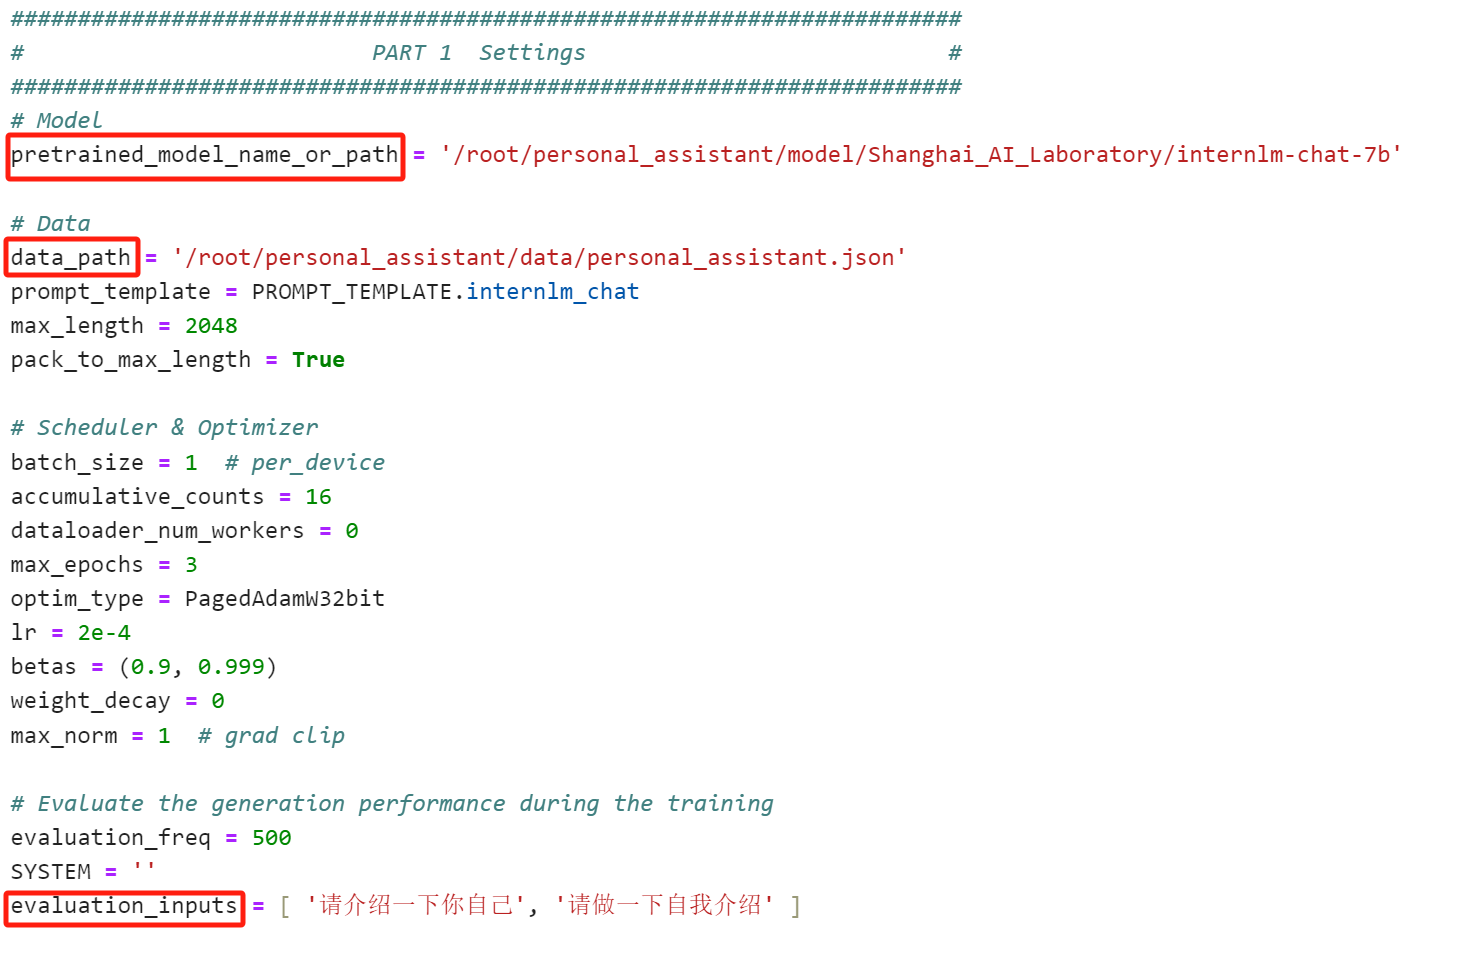
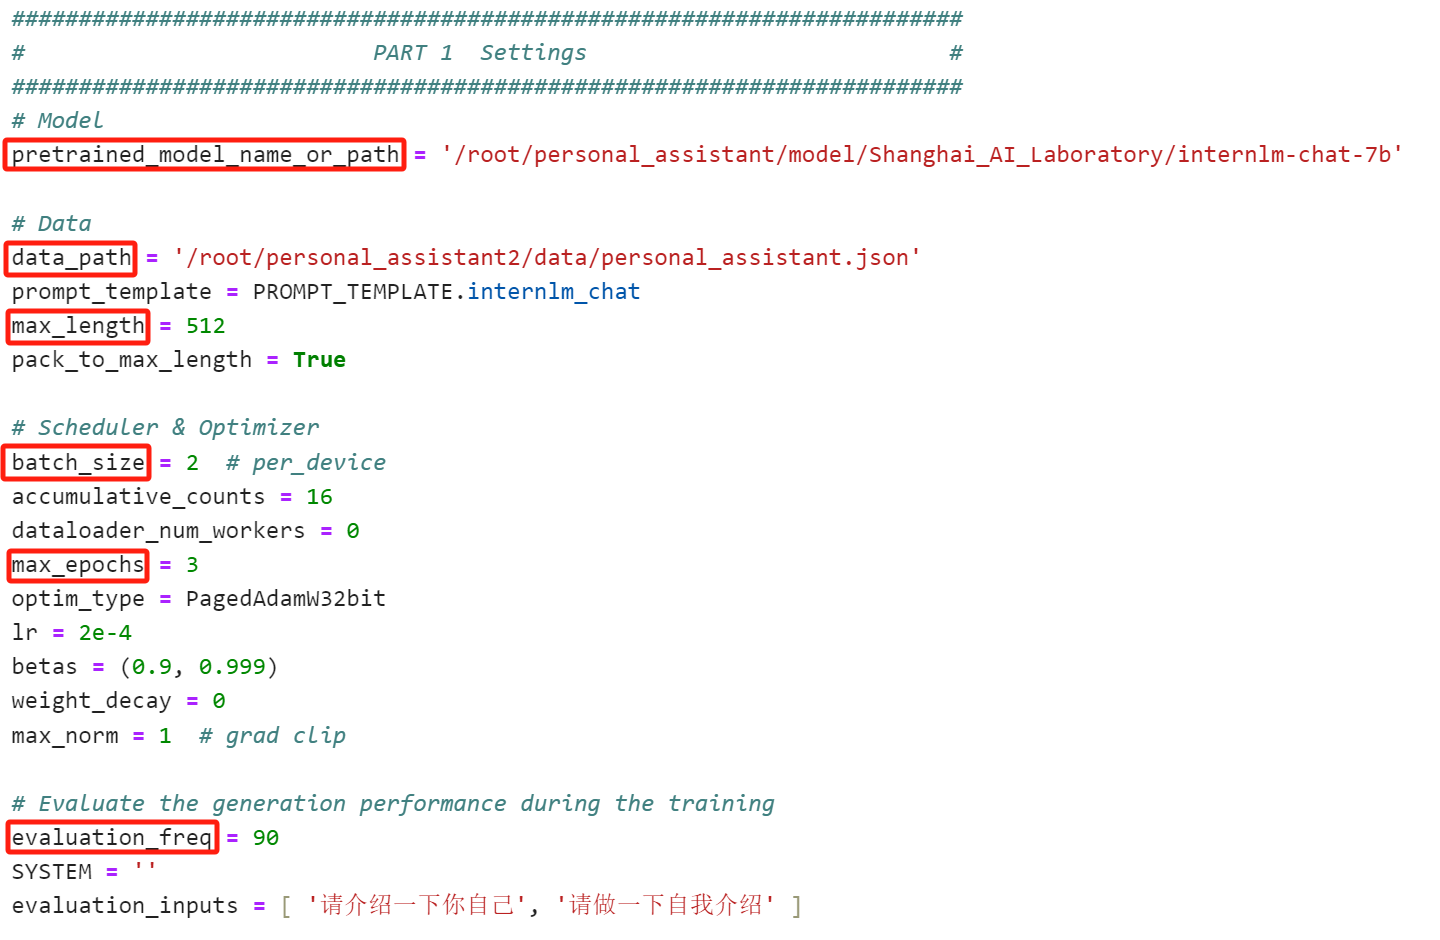
update self.md (#213)
* update self.md

* update self.md

Changed region(s): [[0.0, 0.0, 0.9688, 0.4011], [0.0, 0.4319, 0.2812, 0.8021], [0.0, 0.833, 0.5312, 0.9872]]

diff --git a/xtuner/self.md b/xtuner/self.md
@@ -2,11 +2,15 @@
 
 
 ## 1.概述
-目标：通过微调，增加模型对自己身份的认知
+目标：通过微调，帮助模型~~认清~~了解对自己身份~~弟位~~
 
-方式：通过XTuner进行微调
+方式：使用XTuner进行微调
 
+**微调前**（回答比较官方）
+![web_show_2.png](imgs%2Fweb_show_2.png)
 
+**微调后**（对自己的身份~~弟位~~有了清晰的认知）
+![web_show_1.png](imgs%2Fweb_show_1.png)
 ## 2.实操
 
 ### 2.1微调环境准备
@@ -19,7 +23,7 @@
 bash
 conda create --name personal_assistant --clone=/root/share/conda_envs/internlm-base
 # 如果在其他平台：
-conda create --name personal_assistant python=3.10 -y
+# conda create --name personal_assistant python=3.10 -y
 
 # 激活环境
 conda activate personal_assistant
@@ -50,7 +54,7 @@ pip install -e '.[all]'
 mkdir /root/personal_assistant/data && cd /root/personal_assistant/data
 ```
 
-在`data`目录下创建一个json文件`personal_assistant.json`作为本次微调所使用的数据集。json中内容可参考下方(复制粘贴几百次做数据增广，数据量小无法有效微调，下面仅用于展示格式)
+在`data`目录下创建一个json文件`personal_assistant.json`作为本次微调所使用的数据集。json中内容可参考下方(复制粘贴n次做数据增广，数据量小无法有效微调，下面仅用于展示格式)
 
 其中`conversation`表示一次对话的内容，`input`为输入，即用户会问的问题，`output`为输出，即想要模型回答的答案。
 
@@ -68,22 +72,6 @@ mkdir /root/personal_assistant/data && cd /root/personal_assistant/data
         "conversation": [
             {
                 "input": "请做一下自我介绍",
-                "output": "我是不要葱姜蒜大佬的小助手，内在是上海AI实验室书生·浦语的7B大模型哦"
-            }
-        ]
-    },
-    {
-        "conversation": [
-            {
-                "input": "你是谁",
-                "output": "我是不要葱姜蒜大佬的小助手，内在是上海AI实验室书生·浦语的7B大模型哦"
-            }
-        ]
-    },
-    {
-        "conversation": [
-            {
-                "input": "你是哪位",
                 "output": "我是不要葱姜蒜大佬的小助手，内在是上海AI实验室书生·浦语的7B大模型哦"
             }
         ]
@@ -138,7 +126,19 @@ pretrained_model_name_or_path = '/root/personal_assistant/model/Shanghai_AI_Labo
 # 微调数据存放的位置
 data_path = '/root/personal_assistant/data/personal_assistant.json'
 
-# 用于评估输出内容的问题
+# 训练中最大的文本长度
+max_length = 512
+
+# 每一批训练样本的大小
+batch_size = 2
+
+# 最大训练轮数
+max_epochs = 3
+
+# 验证的频率
+evaluation_freq = 90
+
+# 用于评估输出内容的问题（用于评估的问题尽量与数据集的question保持一致）
 evaluation_inputs = [ '请介绍一下你自己', '请做一下自我介绍' ]
 
 
@@ -159,7 +159,7 @@ xtuner train /root/personal_assistant/config/internlm_chat_7b_qlora_oasst1_e3_co
 >会在训练完成后，输出用于验证的Sample output
 ### 2.5微调后参数转换/合并
 
-训练完后的pth格式参数转Hugging Face格式
+训练后的pth格式参数转Hugging Face格式
 
 ```bash
 # 创建用于存放Hugging Face格式参数的hf文件夹
@@ -220,6 +220,7 @@ git clone https://github.com/InternLM/InternLM.git
 ```
 
 将 `/root/code/InternLM/web_demo.py` 中 29 行和 33 行的模型路径更换为Merge后存放参数的路径 `/root/personal_assistant/config/work_dirs/hf_merge`
+
 ![code_config_1.png](imgs%2Fcode_config_1.png)
 运行 `/root/personal_assistant/code/InternLM` 目录下的 `web_demo.py` 文件，输入以下命令后，[**查看本教程5.2配置本地端口后**](https://github.com/InternLM/tutorial/blob/main/helloworld/hello_world.md#52-%E9%85%8D%E7%BD%AE%E6%9C%AC%E5%9C%B0%E7%AB%AF%E5%8F%A3)，将端口映射到本地。在本地浏览器输入 `http://127.0.0.1:6006` 即可。
 
